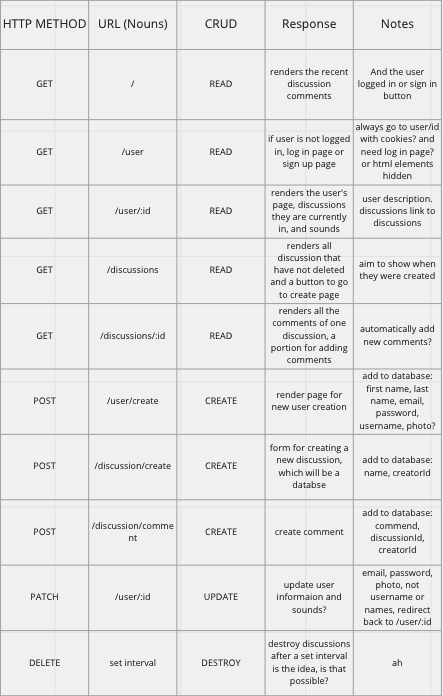
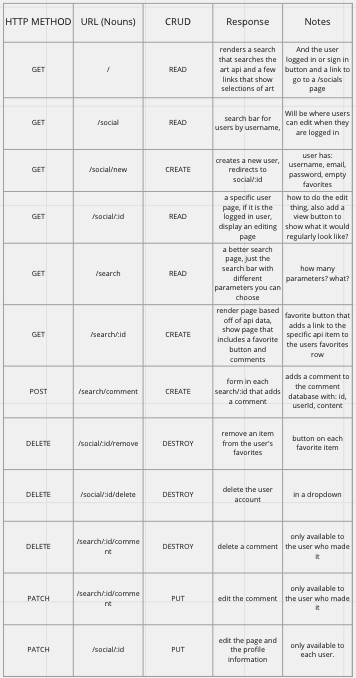
added wireframes and different erds

diff --git a/readme.md b/readme.md
@@ -1,33 +1,29 @@
-# twkward (pronounced talk-ward)
+# Online Gallery
 
-Lots of modern technologies feel temporary. Any app means to endless generate new content, users can return to old content but most will never be remembered. Twkward means to embrace that fully, structured as a set of temporary awkward community discussion, connected to a sample api. 
-(idea was to use https://freesound.org/ but I don't think it will work after reading more, as well how the heck do I OAuth2 authenticate) (second idea for the api is the art institue of chicago api; I couldn't make either connect though..)
+Search engine for Harvard Art Museum's Api to display art or allow users to favorite art, leave comments on pieces' pages, and decorate a page with their favorite art.
 
-Users can create homepages that have samples played as they would like (like myspace maybe) and maybe have a memories for specific comments in discussions that they had. A brief, very short description. As well as active discussions they are in.
+Users can create homepages that have display favorited artwork in a layout they create. They can write brief descriptions of the artworks they show.
 
 
-## Discussions:
-Any user can create a discussion, which is just a space to discuss anything, purposefully vague, but can't be like shitty stuff ig. The creator can also choose the 'soundtrack' 
+## Home page:
+- Header that has home, user pages (that links to user page if logged in) log in and sign up / settings and log out
+- Search bar to search API for works of art (with description and artist) by name, artist name, time period, 
+- some links to sections that better organize artwork, basically just search buttons.
 
-In discussions, users can write 7 characters at a time in a comment (awkward is 7 letters), which if they write uninturrupted become coherent, but new comments become a new line, interrupting.
+## User page:
+- a search for users by username
+- display favorited artworks
+- edit your page somehow
 
-Comments automatically update and display the most recent
-
-## other plan ? 
-if this is too weird an idea, then I'm thinking of an online art gallery with the art institue of chicago api. Users can be created, users can leave comments on paintings or pieces, favorite them to add them to their  user page to display? if displaying them is an option. Delete functions would be to remove from favorites and delete comments. Edit comments and user profile. Let me know if this idea is better and I will restructure this readme.
 
 ## MVP:
 - User page and user creation
-- Discussion page and discussion creation (text only)
-- Comment functionality added to discussions
-- Connecting freesounds API and users can use samples from it on the user page (music bars to add things? music editing station)
+- Art search that displays pictures of art, description, time, and artist
+- Comment functionality added to each show page of art
+- Create a user page that users can edit the display of
 
 ## Stretch Goals:
-- (maybe users can play a one time sample if they comment it in a discussion?)
-- Add memories to user page(a few comments from a discussion)
-- Maybe add videos that are like 3 seconds? that become a slideshow if longer? Maybe pictures?
-- Discussions also delete themselves after a set time (3 days)
-- Maybe users can change the style of each discussion too? like reddit?
+- More user page options, changing the colors or drawing on anything.
 
 ## Index:
 User sign in/up or logged in
@@ -40,7 +36,7 @@ Databases:
 ![ERD routes](pics/ERD.png)
 
 ## User stories:
-- what the frick is this thing
-- why did that guy intrurrupt me
-- where did my discussion from 4 days ago go?
-- this idea is needlessly overcomplicated :)
+- I want to be able to search easily for things
+- I want to be suggested things to click that show me things
+- I want to not have to think much when seeing how to edit the user page
+- I want to see art
